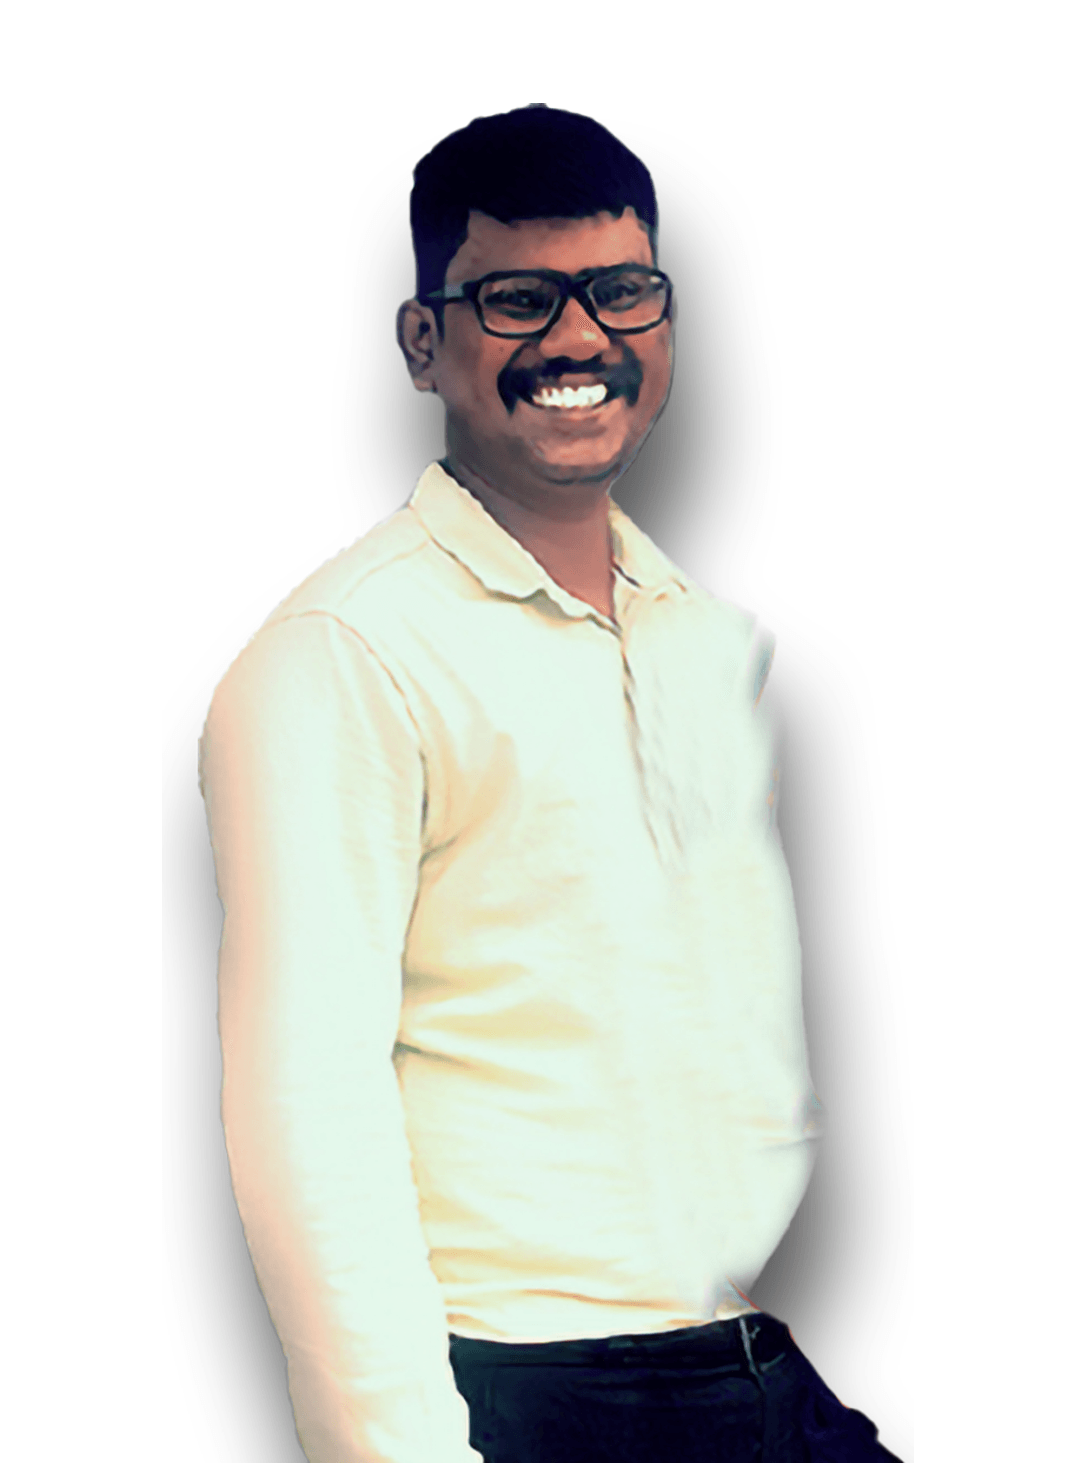
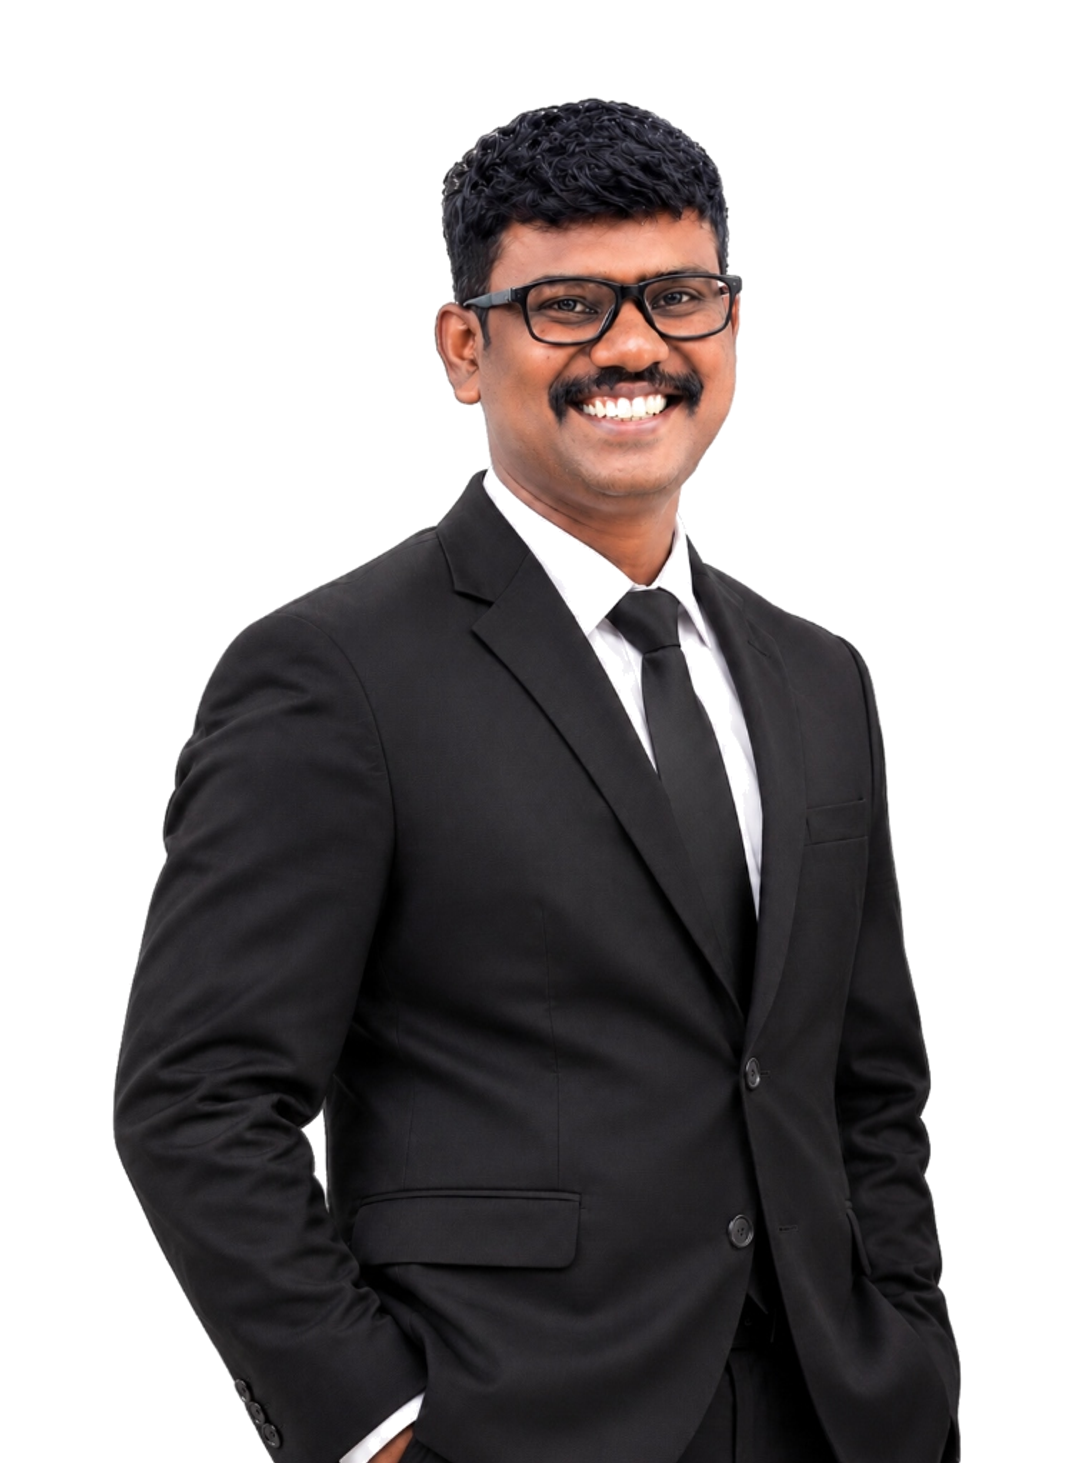
feat(pastors): use studio portraits with pure white background for Imman, Johnson & Christina, Praveen, and Vicky

diff --git a/lib/cloudinaryLibrary.js b/lib/cloudinaryLibrary.js
@@ -102,18 +102,18 @@ export const CLOUDINARY_LIBRARY = {
   pastorMobileCards: {
     balaji: "https://res.cloudinary.com/hqsoyezk/image/upload/f_auto,q_auto/v1793719300/flagweb/images/paster/balaji.png",
     daniel: "https://res.cloudinary.com/hqsoyezk/image/upload/f_auto,q_auto/v1793719301/flagweb/images/paster/daniel.png",
-    imman: "https://res.cloudinary.com/hqsoyezk/image/upload/f_auto,q_auto/v1793721326/flagweb/images/paster/imman.png",
+    imman: "https://res.cloudinary.com/hqsoyezk/image/upload/f_auto,q_auto/v1793722952/flagweb/images/paster/imman.png",
     jerry: "https://res.cloudinary.com/hqsoyezk/image/upload/f_auto,q_auto/v1793719304/flagweb/images/paster/jerry.png",
-    joshnson_and_christina: "https://res.cloudinary.com/hqsoyezk/image/upload/f_auto,q_auto/v1793721313/flagweb/images/paster/joshnson_and_christina.png",
+    joshnson_and_christina: "https://res.cloudinary.com/hqsoyezk/image/upload/f_auto,q_auto/v1793722953/flagweb/images/paster/joshnson_and_christina.png",
     joshwa: "https://res.cloudinary.com/hqsoyezk/image/upload/f_auto,q_auto/v1793719306/flagweb/images/paster/joshwa.png",
     manivannan: "https://res.cloudinary.com/hqsoyezk/image/upload/f_auto,q_auto/v1793719307/flagweb/images/paster/manivannan.png",
-    praveen: "https://res.cloudinary.com/hqsoyezk/image/upload/f_auto,q_auto/v1793721328/flagweb/images/paster/praveen.png",
+    praveen: "https://res.cloudinary.com/hqsoyezk/image/upload/f_auto,q_auto/v1793722955/flagweb/images/paster/praveen.png",
     royes: "https://res.cloudinary.com/hqsoyezk/image/upload/f_auto,q_auto/v1793719310/flagweb/images/paster/royes.png",
     salamon: "https://res.cloudinary.com/hqsoyezk/image/upload/f_auto,q_auto/v1793719311/flagweb/images/paster/salamon.png",
     seranjivi: "https://res.cloudinary.com/hqsoyezk/image/upload/f_auto,q_auto/v1793719312/flagweb/images/paster/seranjivi.png",
     sundar: "https://res.cloudinary.com/hqsoyezk/image/upload/f_auto,q_auto/v1793719313/flagweb/images/paster/sundar.png",
     thomai: "https://res.cloudinary.com/hqsoyezk/image/upload/f_auto,q_auto/v1793719315/flagweb/images/paster/thomai.png",
-    vicky: "https://res.cloudinary.com/hqsoyezk/image/upload/f_auto,q_auto/v1793721329/flagweb/images/paster/vicky.png",
+    vicky: "https://res.cloudinary.com/hqsoyezk/image/upload/f_auto,q_auto/v1793722957/flagweb/images/paster/vicky.png",
     nagaraj: "https://res.cloudinary.com/hqsoyezk/image/upload/f_auto,q_auto/v1793721330/flagweb/images/paster/nagaraj.png",
     johnson_jemimah: "https://res.cloudinary.com/hqsoyezk/image/upload/f_auto,q_auto/v1793721331/flagweb/images/paster/johnson_jemimah.png",
     jedipheth_jerusha: "https://res.cloudinary.com/hqsoyezk/image/upload/f_auto,q_auto/v1793721332/flagweb/images/paster/jedipheth_jerusha.png",
